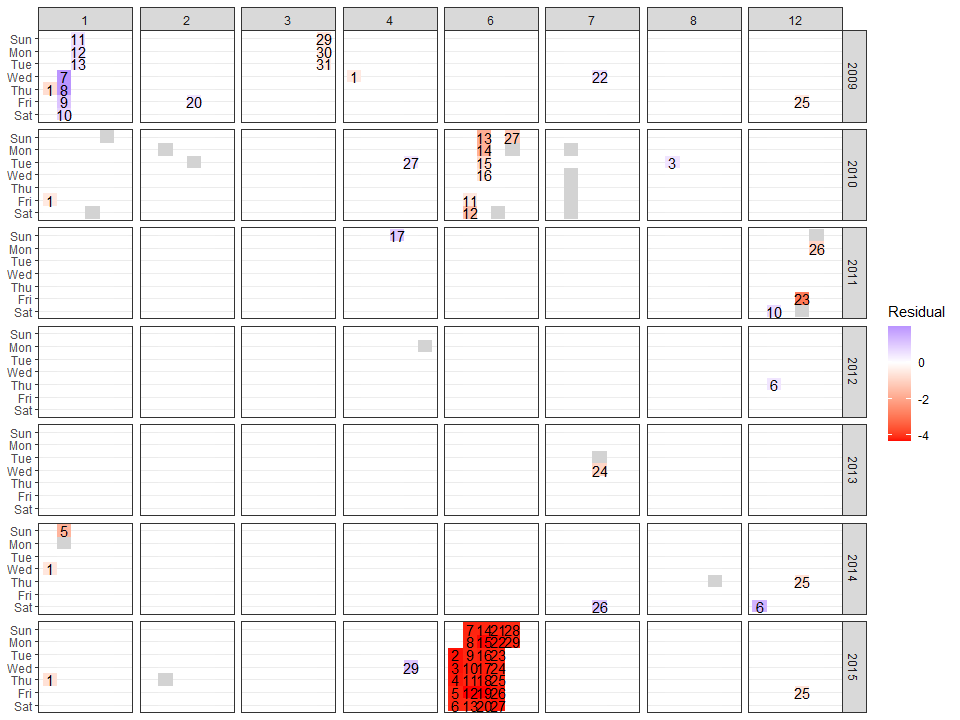
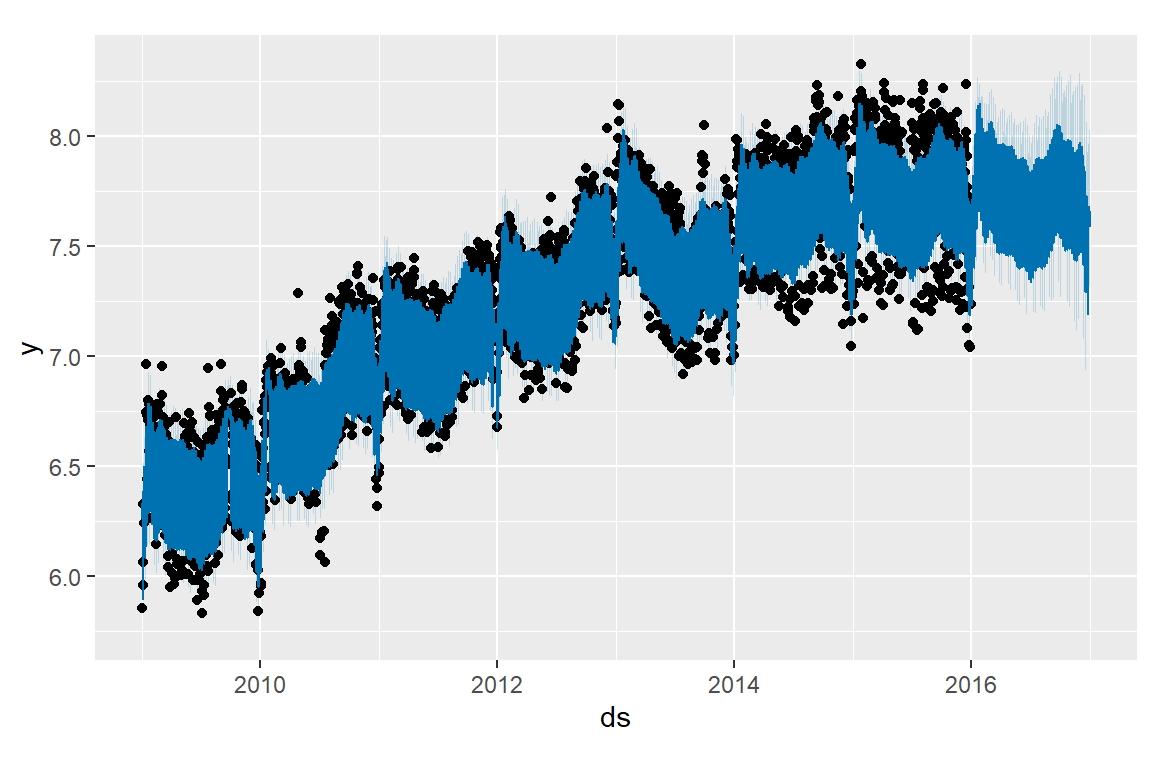
refine plot size

diff --git a/README.md b/README.md
@@ -41,7 +41,7 @@ fore <- predict(model, df_future)
 plot(model, fore)
 ```
 
-![](man/figures/README-unnamed-chunk-2-1.png)<!-- -->
+<img src="man/figures/README-unnamed-chunk-1-1.png" alt="" width="600" />
 
 ``` r
 library(prophetExt)
@@ -51,13 +51,13 @@ outliers <- detect_outliers(model)
 plot(model, fore) + autolayer(outliers)
 ```
 
-![](man/figures/README-unnamed-chunk-3-1.png)<!-- -->
+<img src="man/figures/README-unnamed-chunk-2-1.png" alt="" width="600" />
 
 ``` r
 plot_residuals_calendar(outliers)
 ```
 
-![](man/figures/README-unnamed-chunk-4-1.png)<!-- -->
+<img src="man/figures/README-unnamed-chunk-3-1.png" alt="" width="1000" />
 
 ``` r
 df$y[df$ds %in% outliers$ds] <- NA
@@ -69,4 +69,4 @@ fore <- predict(model, df_future)
 plot(model, fore)
 ```
 
-![](man/figures/README-unnamed-chunk-5-1.png)<!-- -->
+<img src="man/figures/README-unnamed-chunk-4-1.png" alt="" width="600" />
